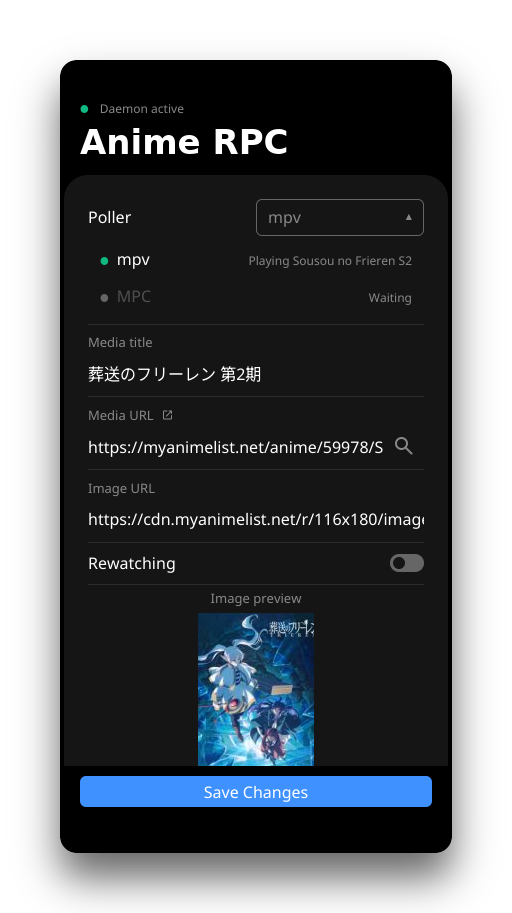
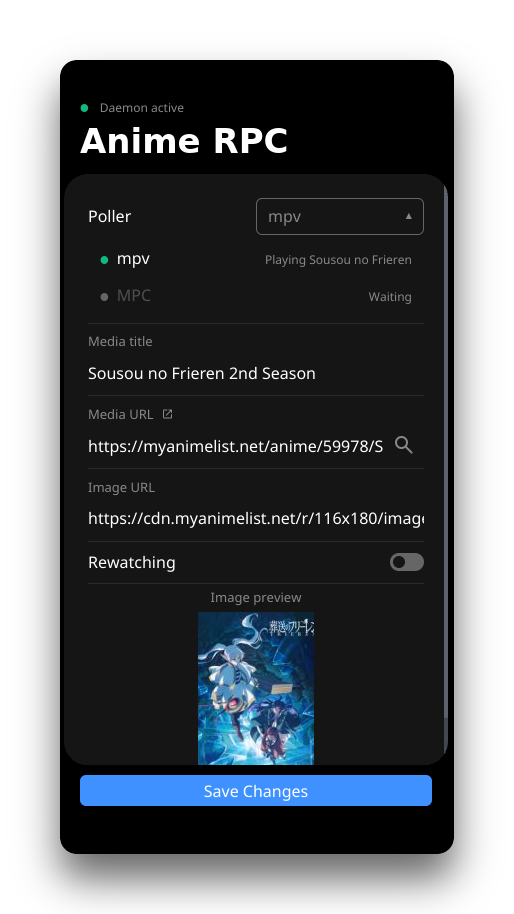
fix(ui): prevent scrollable clipping over rounded corners

diff --git a/ui/src/components.rs b/ui/src/components.rs
@@ -7,8 +7,8 @@ use iced::event::Event;
 use iced::widget::canvas::{self, Canvas, Frame, Geometry, Path, Program, Stroke, Style};
 use iced::widget::image::Handle;
 use iced::widget::{
-    Space, button, column, container, image, mouse_area, row, scrollable, space, stack, text,
-    text_input,
+    Scrollable, Space, button, column, container, image, mouse_area, row, scrollable, space, stack,
+    text, text_input,
 };
 use iced::{
     Alignment, Animation, Background, Color, Element, Length, Padding, Radians, Theme, mouse,
@@ -18,7 +18,7 @@ use std::f32::consts::{PI, TAU};
 use std::time::Instant;
 
 use crate::constants::{ICON_FONT, colours, layout, typography};
-use crate::styles::{self, ColorExt, TogglerStyle};
+use crate::styles::{self, ColorExt, TogglerStyle, card_container_style};
 use crate::types::Message;
 
 pub struct LoadingSpinner {
@@ -244,6 +244,83 @@ pub fn toggler<'a, Message: Clone + 'a>(
     mouse_area(stack![bg, knob_positioned])
         .interaction(mouse::Interaction::Pointer)
         .on_press(on_toggle)
+        .into()
+}
+
+pub struct CornerMask {
+    pub radius: f32,
+    pub color: Color,
+}
+
+impl<Message> Program<Message> for CornerMask {
+    type State = ();
+
+    fn draw(
+        &self,
+        _state: &Self::State,
+        renderer: &iced::Renderer,
+        _theme: &Theme,
+        bounds: Rectangle,
+        _cursor: iced::mouse::Cursor,
+    ) -> Vec<Geometry> {
+        let mut frame = Frame::new(renderer, bounds.size());
+
+        let r = self.radius;
+        let w = bounds.width;
+        let h = bounds.height;
+
+        let mask_path = Path::new(|b| {
+            b.move_to(Point::new(0., r));
+            b.arc_to(Point::new(0., 0.), Point::new(r, 0.), r);
+            b.line_to(Point::new(0., 0.));
+            b.close();
+
+            b.move_to(Point::new(w - r, 0.));
+            b.arc_to(Point::new(w, 0.), Point::new(w, r), r);
+            b.line_to(Point::new(w, 0.));
+            b.close();
+
+            b.move_to(Point::new(w, h - r));
+            b.arc_to(Point::new(w, h), Point::new(w - r, h), r);
+            b.line_to(Point::new(w, h));
+            b.close();
+
+            b.move_to(Point::new(r, h));
+            b.arc_to(Point::new(0., h), Point::new(0., h - r), r);
+            b.line_to(Point::new(0., h));
+            b.close();
+        });
+
+        frame.fill(&mask_path, self.color);
+        vec![frame.into_geometry()]
+    }
+}
+
+pub fn rounded_scrollable_card<'a, Message: 'a>(
+    content: impl Into<Element<'a, Message>>,
+    configure_scrollable: impl FnOnce(Scrollable<'a, Message>) -> Scrollable<'a, Message>,
+) -> Element<'a, Message> {
+    let wrapped = column![
+        container(content)
+            .width(Length::Fill)
+            .height(Length::Fill)
+            .style(card_container_style),
+        Space::new().height(Length::Fill)
+    ];
+
+    let scroll = scrollable(wrapped)
+        .direction(styles::slim_scrollbar())
+        .height(Length::Fill);
+
+    let corner_mask = iced::widget::canvas(CornerMask {
+        radius: layout::XL_SPACING, // card radius
+        color: Color::BLACK,        // root bg
+    })
+    .width(Length::Fill)
+    .height(Length::Fill);
+
+    container(stack![configure_scrollable(scroll), corner_mask])
+        .padding([0., layout::SPACING])
         .into()
 }
 

diff --git a/ui/src/views/config.rs b/ui/src/views/config.rs
@@ -1,11 +1,13 @@
 use crate::app::{AnimeRpc, SseState};
-use crate::components::{divider, dropdown, icon, toggler, underlined_input};
+use crate::components::{
+    divider, dropdown, icon, rounded_scrollable_card, toggler, underlined_input,
+};
 use crate::constants::{colours, layout, typography};
 use crate::styles::{self, TogglerStyle};
 use crate::types::{IoMessage, Message, RpcMessage, SaveStatus, View, ViewMessage};
 use crate::utils::clean_dir_name;
 use iced::widget::text::LineHeight;
-use iced::widget::{Space, button, column, container, row, scrollable, text, text_input};
+use iced::widget::{Space, button, column, container, row, text, text_input};
 use iced::{Center, Color, Element, Font, Length, Padding};
 
 pub fn view(state: &AnimeRpc) -> Element<'_, Message> {
@@ -193,11 +195,6 @@ pub fn view(state: &AnimeRpc) -> Element<'_, Message> {
     .padding(layout::XL_SPACING)
     .height(Length::Fill);
 
-    let card = container(card_content)
-        .style(styles::card_container_style)
-        .width(Length::Fill)
-        .height(Length::Fill);
-
     let status_indicator: Element<'_, Message> = match state.sse {
         SseState::Connecting { .. } => row![
             text("●")
@@ -254,11 +251,7 @@ pub fn view(state: &AnimeRpc) -> Element<'_, Message> {
         }))
         .padding([0., layout::XL_SPACING]),
         Space::new().height(layout::VERTICAL_SPACING),
-        scrollable(
-            column![card, Space::new().height(Length::Fill),].padding([0., layout::SPACING])
-        )
-        .direction(styles::slim_scrollbar())
-        .height(Length::Fill),
+        rounded_scrollable_card(card_content, |s| s),
         row![
             button(text(save_text).align_x(iced::alignment::Horizontal::Center))
                 .on_press(Message::Io(IoMessage::SaveClicked))

diff --git a/ui/src/views/search.rs b/ui/src/views/search.rs
@@ -1,12 +1,10 @@
 use crate::app::AnimeRpc;
-use crate::components::{icon, space_between_column, toggler};
+use crate::components::{icon, rounded_scrollable_card, space_between_column, toggler};
 use crate::constants::{colours, layout, typography};
 use crate::styles::{self, ColorExt, TogglerStyle};
 use crate::types::{Message, SearchMessage, SearchProvider, SearchResult, View, ViewMessage};
 use iced::border::Radius;
-use iced::widget::{
-    Id, Space, button, column, container, row, scrollable, stack, svg, text, text_input,
-};
+use iced::widget::{Id, Space, button, column, container, row, stack, svg, text, text_input};
 use iced::{Alignment, Background, Center, Color, Element, Font, Length, Padding};
 
 pub fn result_card<'a>(
@@ -253,12 +251,6 @@ pub fn view<'a>(state: &'a AnimeRpc) -> Element<'a, Message> {
         .into()
     };
 
-    let card = container(results_content)
-        .style(styles::card_container_style)
-        .padding(0.)
-        .width(Length::Fill)
-        .height(Length::Fill);
-
     let next_provider = match state.search.form.selected_provider {
         SearchProvider::MyAnimeList => SearchProvider::AniList,
         SearchProvider::AniList => SearchProvider::MyAnimeList,
@@ -342,10 +334,7 @@ pub fn view<'a>(state: &'a AnimeRpc) -> Element<'a, Message> {
         ]
         .spacing(layout::S_SPACING)
         .padding([0., layout::L_SPACING + layout::S_SPACING]),
-        scrollable(column![card, Space::new().height(Length::Fill)].padding([0., layout::SPACING]))
-            .id(Id::new("search_scroll"))
-            .direction(styles::slim_scrollbar())
-            .height(Length::Fill),
+        rounded_scrollable_card(results_content, |s| s.id(Id::new("search_scroll"))),
     ]
     .spacing(layout::XL_SPACING)
     .padding(Padding::new(0.).top(40).bottom(20));

diff --git a/ui/src/styles.rs b/ui/src/styles.rs
@@ -117,15 +117,19 @@ pub fn secondary_button_style(_theme: &Theme, status: Status) -> button::Style {
     }
 }
 
+pub fn rounded_corner() -> Border {
+    Border {
+        radius: layout::XL_SPACING.into(),
+        width: 0.,
+        color: Color::TRANSPARENT,
+    }
+}
+
 pub fn card_container_style(_theme: &Theme) -> container::Style {
     container::Style {
         background: Some(Background::Color(colours::SOFT_DARK)),
         text_color: Some(Color::WHITE),
-        border: Border {
-            radius: layout::XL_SPACING.into(),
-            width: 0.,
-            color: Color::TRANSPARENT,
-        },
+        border: rounded_corner(),
         shadow: Default::default(),
         ..Default::default()
     }